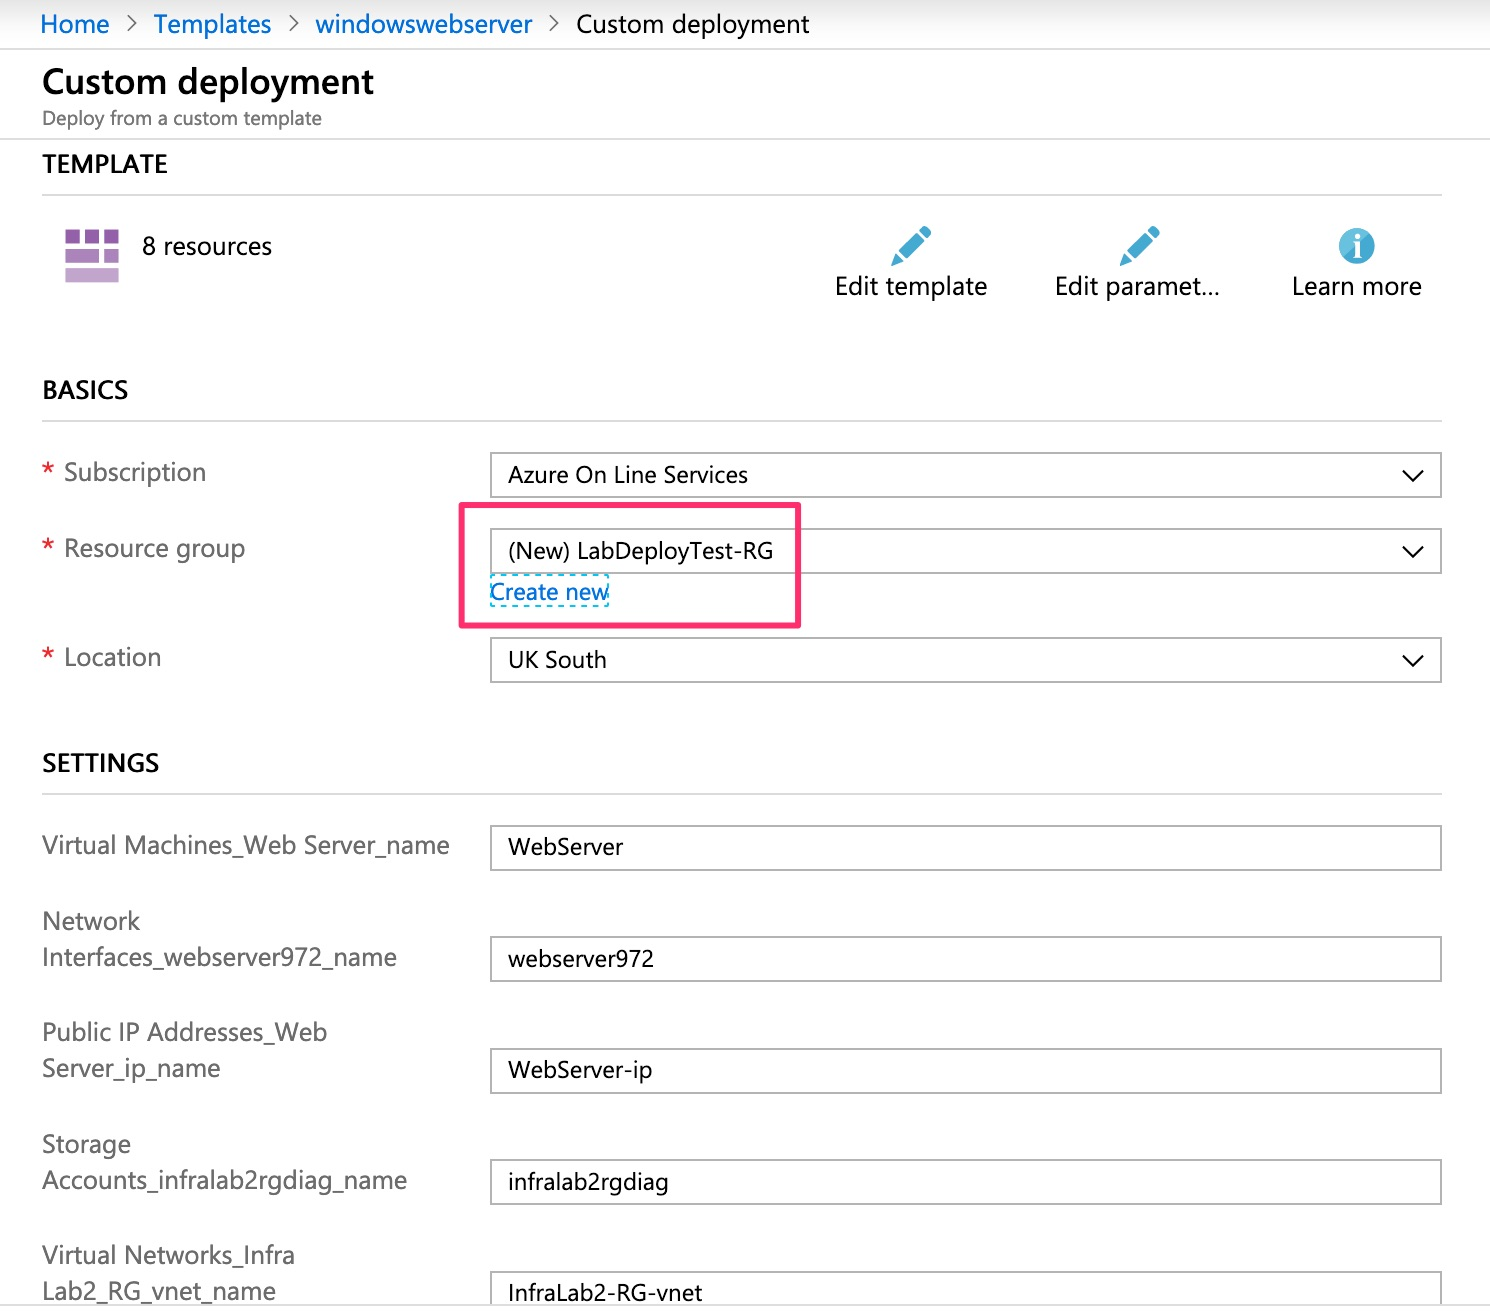
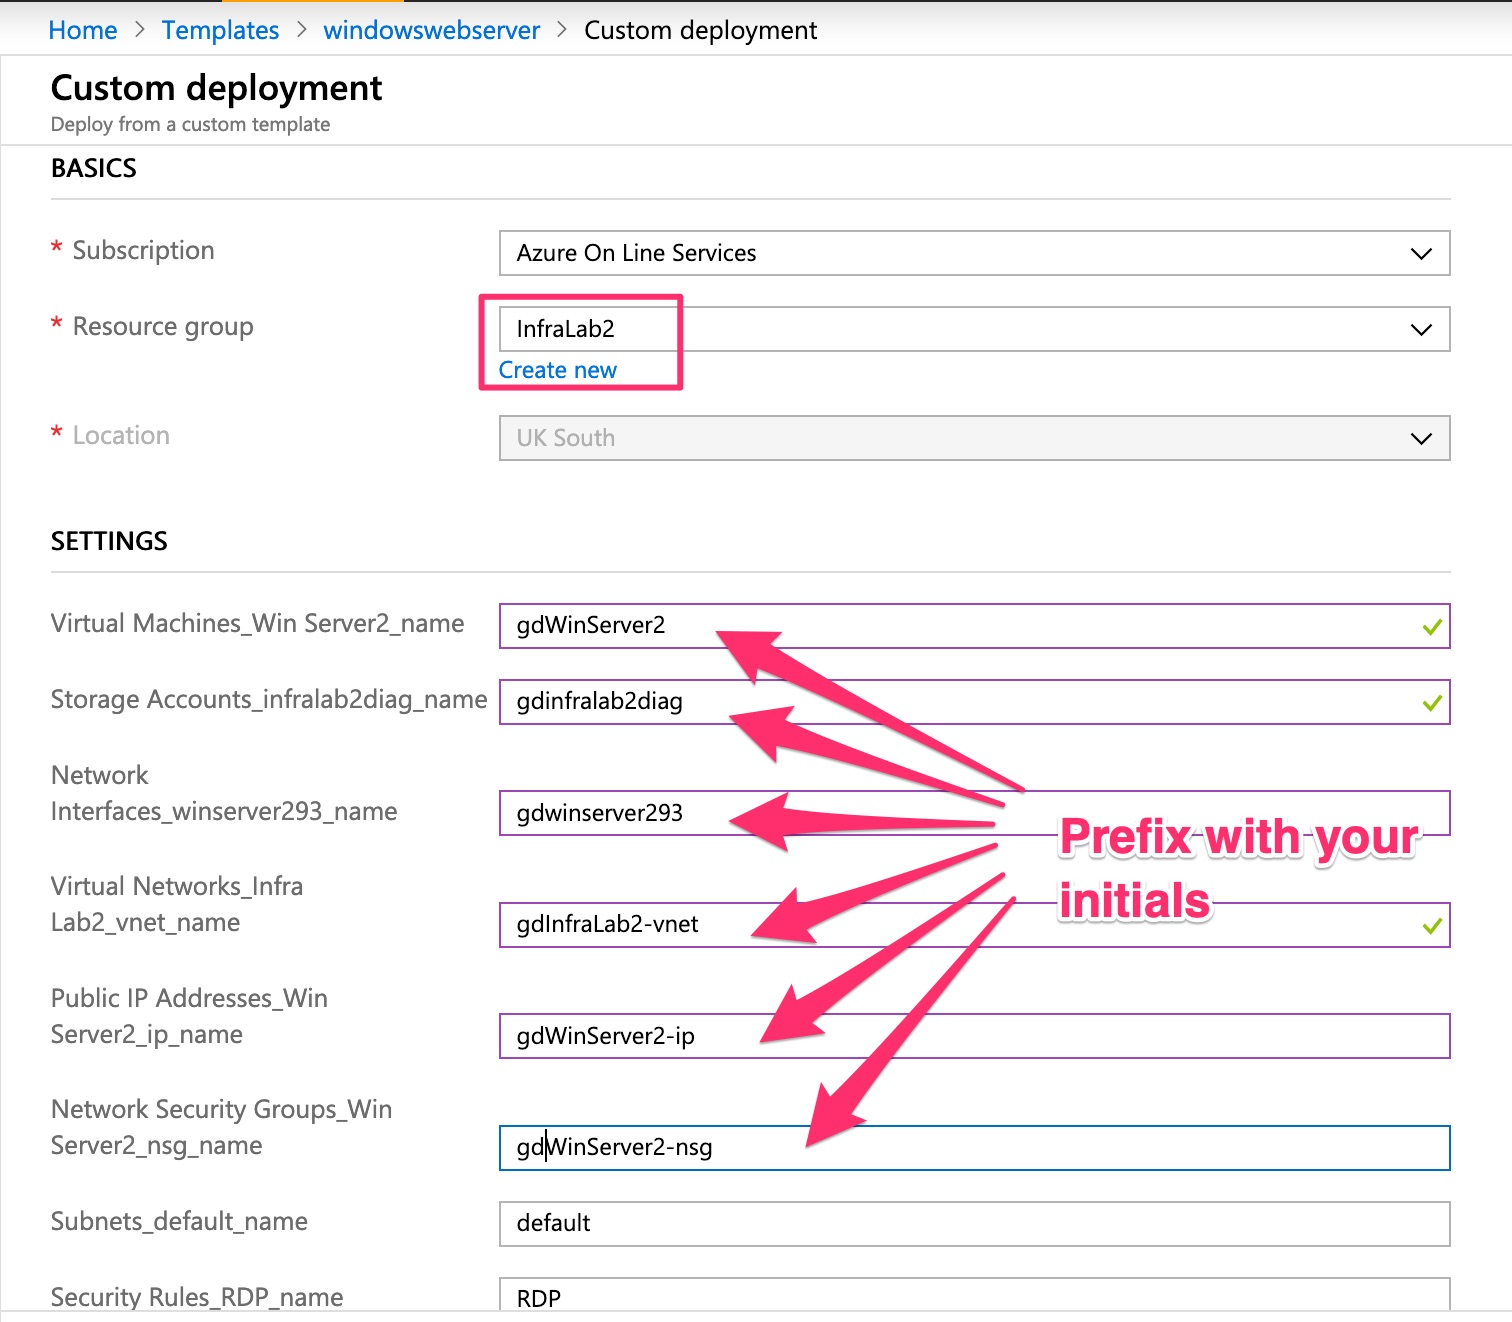
Lab 2 Part 2

diff --git a/MoveIacLab2.md b/MoveIacLab2.md
@@ -44,13 +44,28 @@ This lab will create a new Virtual Machine in order to keep the steps simpler as
 
 <img src="images/Lab2_6.jpg" width="624"/>
 
-3. This will now create a new VM using the ARM template. Create a new resource group so that you can easily see (and later delete) everything that gets created. Notice that various parameters are exposed for you to override if you wish. You can leave the defaults:
+3. This will now create a new VM using the ARM template. Create a new resource group so that you can easily see (and later delete) everything that gets created. Notice that various parameters are exposed for you to override. In order to clearly understand what will get created add your initials as a prefix to each of the first six parameters. The remainder can be left as defaults:
 
 <img src="images/Lab2_7.jpg" width="624"/>
 
 4. Review the terms and conditions at the bottom of the page, check the box and click Purchase:
 
 <img src="images/Lab2_8.jpg" width="624"/>
+
+5. The new Virtual Machine will then be created and deployed. Note that at the time of writing you may see an error in the deployment:
+
+<img src="images/Lab2_9.jpg" width="624"/>
+
+This appears to be an incorrect error and the virtual machine will be successfully created.
+
+6. Navigate to the resource group created in the deployment and you will be able to see all of the resources created from your template:
+
+<img src="images/Lab2_10.jpg" width="624"/>
+
+7. Optionally RDP in to the virtual machine to validate the deployment. You can also stop the VM and/or delete the resource group just created now as this is no longer needed. You can redeploy in the same way whenever you want from the template library.
+
+## Part 3: Editing the template
+
 
 
 [Lab 1: Create a virtual machine in the portal](https://github.com/gidavies/MovingToInfraAsCodeLab/blob/master/MoveIacLab1.md) | [Lab 3: Creating ARM templates from scratch](https://github.com/gidavies/MovingToInfraAsCodeLab/blob/master/MoveIacLab3.md)
